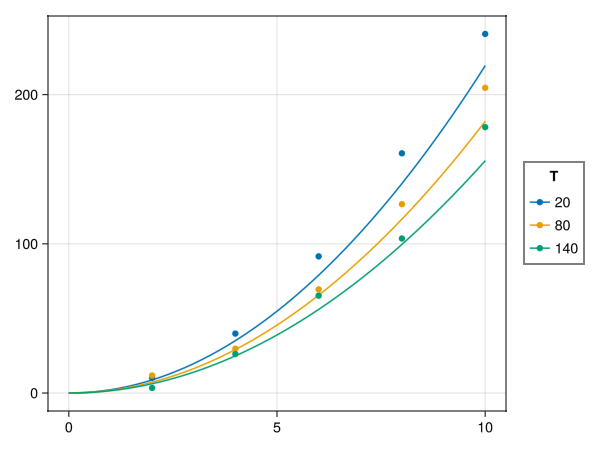
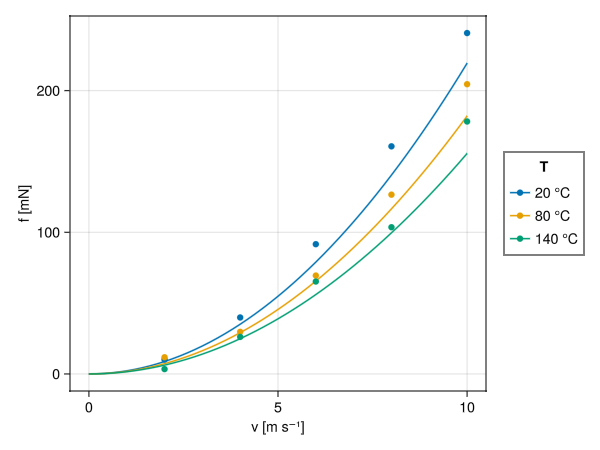
add Unitful

Changed region(s): [[0.03, 0.0311, 0.99, 0.9644], [0.75, 0.0622, 0.81, 0.0933]]

diff --git a/docs/src/intro.md b/docs/src/intro.md
@@ -4,7 +4,7 @@
 
 ## Simple Plots from a Vector
 
-Let's start with the most simple dataset - an one-dimensional array of data - and see how we can visualize it in different ways.
+Let's start with the most simple dataset - a one-dimensional array of data - and see how we can visualize it in different ways.
 
 ### Scatter Plot
 
@@ -71,7 +71,7 @@ Here, we also adjusted the axis limits and hid the legend for a cleaner look.
 
 ## Working with Real Data: Air Drag Example
 
-This section demonstrates more advanced AlgebraOfGraphics features using a realistic example: comparing theoretical air drag force calculations with experimental measurements. The air drag force on a sphere depends on velocity and temperature, which are our experimental variables. We'll progressively build up a complex multi-layer plot to show both theoretical predictions and measured data with error bars.
+This section demonstrates more advanced AlgebraOfGraphics features using a realistic example: comparing theoretical air drag force calculations with experimental measurements. It also showcases how AlgebraOfGraphics seamlessly handles physical units using `Unitful.jl`, automatically labeling axes with the correct units. The air drag force on a sphere depends on velocity and temperature, which are our experimental variables. We'll progressively build up a complex multi-layer plot to show both theoretical predictions and measured data with error bars.
 
 ### Theoretical Data: Line Plots with Grouping
 
@@ -81,18 +81,18 @@ First, we calculate theoretical force values across a range of velocities at thr
   <summary>Create data</summary>
 
 ```julia
-using WGLMakie, AlgebraOfGraphics, DataFrames
+using WGLMakie, AlgebraOfGraphics, DataFrames, Unitful
 
-# Air drag force calculation (simplified); v in m/s, T in °C, d in cm, 
-f_theor(v; T=25, d=10, Cp=0.47) = 13.6816 * Cp * v^2 * d^2 / (273.15 + T) # mN
-
+f_theor(v; T=25u"°C", d=10u"cm^2", Cp=0.47) = 13.6816e5u"(kg*K)/m^5" * Cp * v^2 * d^2 / (T |> u"K") |> u"mN"
 T = 20:60:140
-v = 0:0.2:10
+Ts = (T .|> string)
+Tc = collect(T) .* u"°C"
+v = (0:0.2:10) .* u"m/s"
 
 df = DataFrame(
-    v = [v for v in v for _ in T],
-    T = [t for _ in v for t in T],
-    f = [f_theor(v, T=t) for v in v for t in T]
+    v = [v for v in v for _ in Tc],
+    T = [t for _ in v for t in Tc],
+    f = [f_theor(v, T=t) for v in v for t in Tc]
 )
 ```
 
@@ -101,44 +101,48 @@ df = DataFrame(
 The resulting DataFrame has one row for each velocity-temperature combination:
 
 ```
-51×3 DataFrame
- Row │ v        T      f       
-     │ Float64  Int64  Float64 
-─────┼───────────────────────────
-   1 │     0.0     20      0.0
-   2 │     0.0     80      0.0
-   3 │     0.0    140      0.0
-   ⋮
-  50 │    10.0     80   3961.56
-  51 │    10.0    140   3542.49
+153×3 DataFrame
+ Row │ v           T          f            
+     │ Quantity…   Quantity…  Quantity…    
+─────┼─────────────────────────────────────
+   1 │  0.0 m s⁻¹      20 °C        0.0 mN
+   2 │  0.0 m s⁻¹      80 °C        0.0 mN
+   3 │  0.0 m s⁻¹     140 °C        0.0 mN
+   4 │  0.2 m s⁻¹      20 °C        0.08 mN
+  ⋮  │     ⋮           ⋮           ⋮
+ 152 │ 10.0 m s⁻¹      80 °C    182.09 mN
+ 153 │ 10.0 m s⁻¹     140 °C    155.64 mN
 ```
 
-Now we create a line plot with separate curves for each temperature using the `group` aesthetic:
+Now we create a line plot with separate curves for each temperature using the `group` keyword:
 
 ```julia
-plt1 = data(df) * mapping(:v, :f; group=:T, color=:T => nonnumeric) * visual(Lines)
+plt1 = data(df) * mapping(:v, :f; group=:T, color=:T => nonnumeric) * visual(Lines) 
 fig1 = plt1 |> draw
 ```
 
-The `color=:T => nonnumeric` mapping tells AlgebraOfGraphics to treat temperature as a categorical variable for coloring purposes, creating distinct colors for each temperature value.
+The `color=:T => nonnumeric` transformation tells AlgebraOfGraphics to treat temperature as a categorical variable for marker (in this case, lines) colors.
 
 ![Theoretical Air Drag Curves](assets/fig1_air_drag_theory.png)
 
 ### Measured Data: Transforming from Wide to Long Format
 
-Experimental measurements are often stored in a "wide" format. Here data for each temperature are in a separate column. 
+Experimental measurements are often stored in a "wide" format. Here, data for each temperature are in a separate column. 
 
 <details>
   <summary>Create data</summary>
 
 ```julia
 # Measured data at discrete velocities
-vs = 2:2:10
-f_measured = [10.17 11.78 3.43; 39.86 29.74 26.15; 91.6 69.46 65.26; 
-              160.67 126.57 103.57; 240.65 204.54 178.22]
+vs = (2:2:10) .* u"m/s"
+f_measured = [
+    10.17 11.78 3.43; 
+    39.86 29.74 26.15; 
+    91.6 69.46 65.26; 
+    160.67 126.57 103.57; 
+    240.65 204.54 178.22
+    ] .* u"mN"
 
-# Create wide-format DataFrame
-Ts = (T .|> string)
 m = hcat(vs, f_measured)
 nms = vcat("v", Ts)
 dfm = DataFrame(m, nms)
@@ -150,38 +154,35 @@ The wide-format DataFrame looks like this:
 
 ```
 5×4 DataFrame
- Row │ v        20       80       140     
-     │ Float64  Float64  Float64  Float64 
-─────┼────────────────────────────────────
-   1 │     2.0    10.17    11.78     3.43
-   2 │     4.0    39.86    29.74    26.15
-   3 │     6.0    91.6     69.46    65.26
-   ⋮
-   4 │     8.0   160.67   126.57   103.57
-   5 │    10.0   240.65   204.54   178.22
+ Row │ v           20         80         140       
+     │ Quantity…   Quantity…  Quantity…  Quantity… 
+─────┼─────────────────────────────────────────────
+   1 │  2.0 m s⁻¹   10.17 mN   11.78 mN    3.43 mN
+   2 │  4.0 m s⁻¹   39.86 mN   29.74 mN   26.15 mN
+   3 │  6.0 m s⁻¹    91.6 mN   69.46 mN   65.26 mN
+   4 │  8.0 m s⁻¹  160.67 mN  126.57 mN  103.57 mN
+   5 │ 10.0 m s⁻¹  240.65 mN  204.54 mN  178.22 mN
 ```
 
-AlgebraOfGraphics works best with "long" format data, so let's convert data to long format using `stack`:
+AlgebraOfGraphics works best with "long" format data, so let's convert the data to long format using `stack`:
 
 <details>
   <summary>Convert table, add error values</summary>
 
 ```julia
-dfl = stack(dfm, Ts)
-rename!(dfl, :value => :f, :variable => :T)
+dfl = stack(dfm, Ts; value_name=:f, variable_name=:T)
 
-# convert T into numeric data
-transform!(dfl, :T => ByRow(s -> parse(Int, s)) => :T) 
+# convert T into numeric unitful data
+transform!(dfl, :T => ByRow(s -> parse(Int, s)*u"°C") => :T)
 
 # Add error estimates
-dfl[!, :f_err] = @. round(5 + dfl[!, :f] * 0.05; digits=1)
-dfl[!, :v_err] = @. round(0.1 + dfl[!, :v] * 0.02; digits=2)
+dfl[!, :f_err] = @. 5u"mN" + dfl[!, :f] * 0.05
+dfl[!, :v_err] = @. 0.1u"m/s" + dfl[!, :v] * 0.02
 ```
 
 **What just happened?** 
-- `stack(dfm, Ts)` takes the three temperature columns (`"20"`, `"80"`, `"140"`) and "stacks" them into two new columns: `variable` (containing the column name) and `value` (containing the data)
-- `rename!` gives these columns more meaningful names: `T` and `f`
-- `transform!` converts temperature from strings back to integers
+- `stack(dfm, Ts; value_name=:f, variable_name=:T)` takes the three temperature columns (`"20"`, `"80"`, `"140"`) and "stacks" them into two new columns: `T` (containing the column name) and `f` (containing the data)
+- `transform!` converts temperature from strings back to integers and then to `°C`
 - We then add error estimates for both force and velocity measurements
 
 </details>
@@ -189,22 +190,22 @@ dfl[!, :v_err] = @. round(0.1 + dfl[!, :v] * 0.02; digits=2)
 The transformed long-format DataFrame with error columns:
 
 ```
-15×5 DataFrame
- Row │ v        T      f        f_err    v_err   
-     │ Float64  Int64  Float64  Float64  Float64 
-─────┼──────────────────────────────────────────────
-   1 │     2.0     20    10.17      5.5     0.14
-   2 │     4.0     20    39.86      7.0     0.18
-   3 │     6.0     20    91.6       9.6     0.22
-   ⋮
-  14 │     8.0    140   103.57     10.2     0.26
-  15 │    10.0    140   178.22     13.9     0.3
+ Row │ v           T          f          f_err      v_err      
+     │ Quantity…   Quantity…  Quantity…  Quantity…  Quantity…  
+─────┼─────────────────────────────────────────────────────────
+   1 │  2.0 m s⁻¹      20 °C   10.17 mN    5.51 mN  0.14 m s⁻¹
+   2 │  4.0 m s⁻¹      20 °C   39.86 mN    6.99 mN  0.18 m s⁻¹
+   3 │  6.0 m s⁻¹      20 °C    91.6 mN    9.58 mN  0.22 m s⁻¹
+   4 │  8.0 m s⁻¹      20 °C  160.67 mN   13.03 mN  0.26 m s⁻¹
+  ⋮  │     ⋮           ⋮          ⋮          ⋮          ⋮
+  14 │  8.0 m s⁻¹     140 °C  103.57 mN   10.18 mN  0.26 m s⁻¹
+  15 │ 10.0 m s⁻¹     140 °C  178.22 mN   13.91 mN   0.3 m s⁻¹
 ```
 
-Now we can create a scatter plot. Note how we're adding axis titles using the `=>` syntax:
+Now we can create a scatter plot. 
 
 ```julia
-plt2 = data(dfl) * mapping(:v => "v [m/s]", :f => "f [mN]"; color=:T => nonnumeric) * visual(Scatter)
+plt2 = data(dfl) * mapping(:v, :f; color=:T => nonnumeric) * visual(Scatter) 
 fig2 = plt2 |> draw
 ```
 
@@ -224,27 +225,24 @@ This creates a single plot showing both datasets, making it easy to compare theo
 
 ### Advanced Layering: Error Bars and Custom Scales
 
-Finally, we add error bars in both x and y directions. To avoid cluttering the legend, we use a named scale (`:err`) for the error bars and suppress its legend:
+Finally, we add error bars in both x and y directions. To avoid cluttering the legend, we use a named scale `:err` for the error bars to be able to hide them:
 
 ```julia
 # Y-direction error bars
-plt3 = data(dfl) * mapping(:v, :f, :f_err; 
-                           color = :T => nonnumeric => scale(:err)) * 
-       visual(Errorbars; whiskerwidth = 10)
+plt3 =  data(dfl) * 
+        mapping(:v, :f, :f_err; color = :T => nonnumeric => scale(:err)) * 
+        visual(Errorbars; whiskerwidth = 10)
 
 # X-direction error bars
-plt4 = data(dfl) * mapping(:v, :f, :v_err; 
-                           color=:T => nonnumeric) * 
-       visual(Errorbars; whiskerwidth = 10, direction = :x)
+plt4 =  data(dfl) * 
+        mapping(:v, :f, :v_err; color=:T => nonnumeric => scale(:err)) * 
+        visual(Errorbars; whiskerwidth = 10, direction = :x)
 
 # Combine all layers with custom axis settings
-fg1234 = draw(plt4 + plt3 + plt2 + plt1,
-    scales(; err = (; legend = false)),
-    axis = (; xlabel = "v [m/s]", 
-             ylabel = "f [mN]", 
-             limits = (0, nothing, 0, nothing)),
-    figure=(; size=(600, 450)),
-)
+fg1234 = draw(plt4 + plt3 + plt2 + plt1, 
+    scales(; err = (; legend = false));
+    axis = (; limits = (0, nothing, 0, nothing))
+    )
 ```
 
 Key features demonstrated here:
